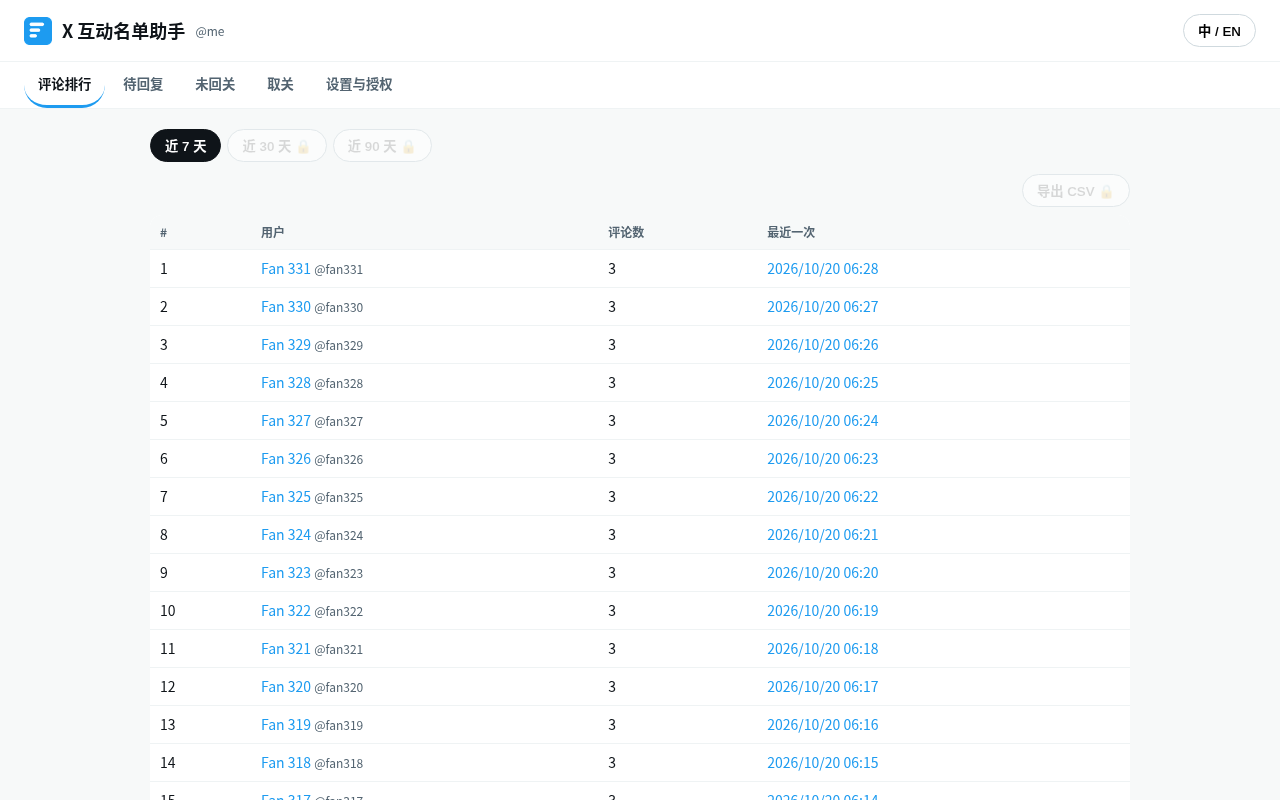
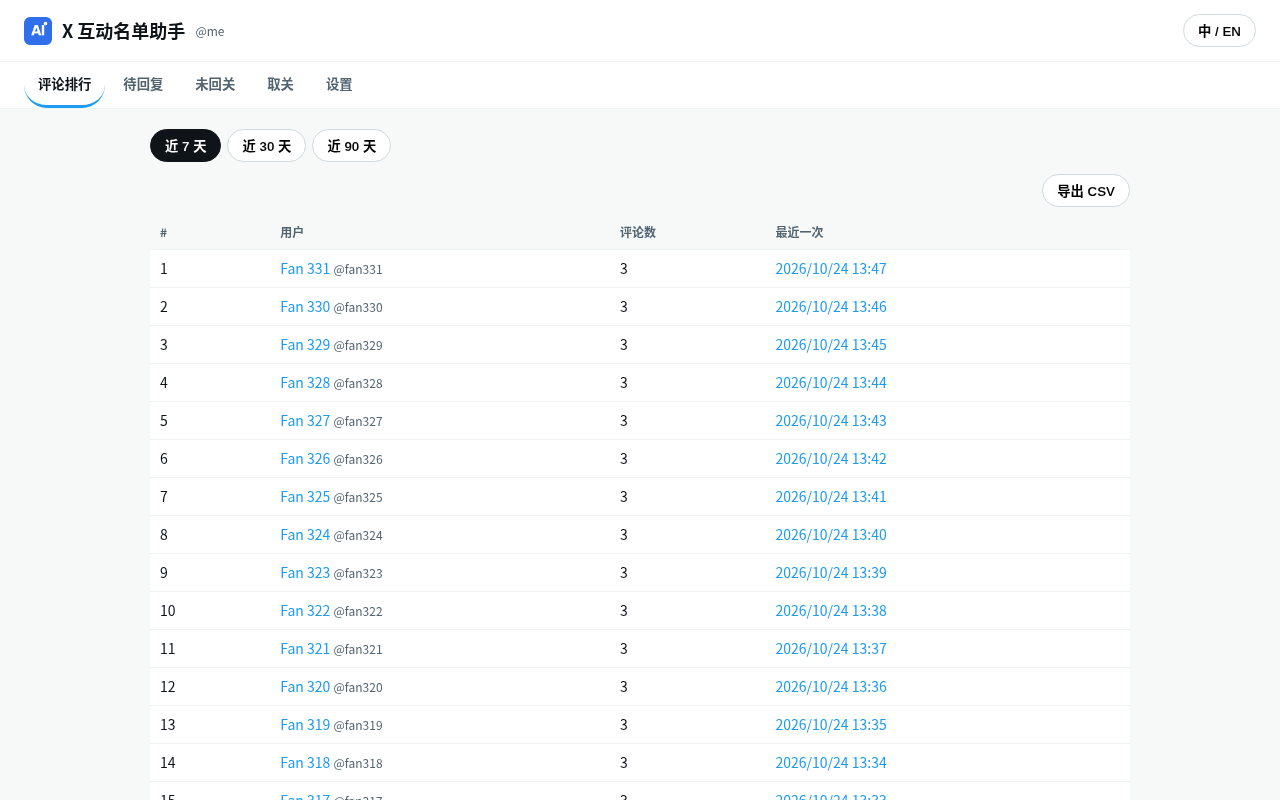
Free Chrome Web Store edition (non-trader): no plan/key/purchase/network in the extension; all features free; free-edition release guard + tests; e2e updated

diff --git a/src/dashboard.ts b/src/dashboard.ts
@@ -1,15 +1,14 @@
 /** Dashboard page (extension origin). Reads IndexedDB directly; renders with plain DOM, paginated for speed. */
-import { allowedDays, applyPlan, leaderboard, notFollowingBack, pendingReplies, toCSV, unfollowers } from './analytics';
-import { CONFIG, upgradeUrl } from './config';
-import { accounts, getMeta, getSnapshots, getTweets, setMeta, wipeAccount } from './db';
+// Free store edition: every feature is available, there is no plan, key, purchase or network request.
+import { leaderboard, notFollowingBack, pendingReplies, toCSV, unfollowers } from './analytics';
+import { accounts, getMeta, getSnapshots, getTweets, wipeAccount } from './db';
 import { defaultLang, t, type Key, type Lang } from './i18n';
-import { activate } from './license';
-import { currentPlan, refreshIfNeeded } from './plan';
-import type { Plan, Snapshot, TweetRecord } from './types';
+import { SITE } from './site';
+import type { Snapshot, TweetRecord } from './types';
 
 const PAGE = 100;
-const state = { lang: defaultLang() as Lang, tab: 'leaderboard' as Tab, days: 7, account: '', plan: 'free' as Plan,
-                tweets: [] as TweetRecord[], snaps: [] as Snapshot[], shown: PAGE, installId: '' };
+const state = { lang: defaultLang() as Lang, tab: 'leaderboard' as Tab, days: 7, account: '',
+                tweets: [] as TweetRecord[], snaps: [] as Snapshot[], shown: PAGE };
 type Tab = 'leaderboard' | 'pending' | 'notBack' | 'unfollowers' | 'settings';
 
 const $ = <T extends HTMLElement>(sel: string) => document.querySelector(sel) as T;
@@ -26,35 +25,34 @@ function download(name: string, csv: string) {
   setTimeout(() => URL.revokeObjectURL(a.href), 1000);
 }
 
-function table(head: string[], rows: string[][], total: number, hidden: number, csv?: () => string, csvName = 'export.csv'): string {
+function table(head: string[], rows: string[][], total: number, csv?: () => string, csvName = 'export.csv'): string {
   if (!total) return '';
   const body = rows.slice(0, state.shown).map((r) => `<tr>${r.map((c) => `<td>${c}</td>`).join('')}</tr>`).join('');
   const more = rows.length > state.shown ? `<button id="more">${tr('more')} (${rows.length - state.shown})</button>` : '';
-  const hid = hidden ? `<p class="upsell">${tr('hidden', { n: hidden })} · <a href="${esc(upgradeUrl(state.installId))}" target="_blank">${tr('buy')}</a></p>` : '';
-  const exp = csv ? `<button id="csv" ${state.plan === 'pro' ? '' : 'disabled title="' + tr('proOnly') + '"'}>${tr('exportCsv')}${state.plan === 'pro' ? '' : ' 🔒'}</button>` : '';
+  const exp = csv ? `<button id="csv">${tr('exportCsv')}</button>` : '';
   (window as unknown as { __csv?: () => void }).__csv = csv ? () => download(csvName, csv()) : undefined;
-  return `<div class="tools">${exp}</div><table><thead><tr>${head.map((h) => `<th>${h}</th>`).join('')}</tr></thead><tbody>${body}</tbody></table>${more}${hid}`;
+  return `<div class="tools">${exp}</div><table><thead><tr>${head.map((h) => `<th>${h}</th>`).join('')}</tr></thead><tbody>${body}</tbody></table>${more}`;
 }
 
 function viewLeaderboard(): string {
-  const days = allowedDays(state.days, state.plan);
+  const days = state.days;
   const all = leaderboard(state.tweets, state.account, days);
-  const { rows, hidden } = applyPlan(all, state.plan);
-  const sel = [7, 30, 90].map((d) => `<button class="seg ${d === days ? 'on' : ''}" data-days="${d}" ${d !== 7 && state.plan !== 'pro' ? 'disabled' : ''}>${tr(('d' + d) as Key)}${d !== 7 && state.plan !== 'pro' ? ' 🔒' : ''}</button>`).join('');
+  const rows = all;
+  const sel = [7, 30, 90].map((d) => `<button class="seg ${d === days ? 'on' : ''}" data-days="${d}">${tr(('d' + d) as Key)}</button>`).join('');
   if (!all.length) return `<div class="seg-wrap">${sel}</div><p class="empty">${tr('empty')}</p>`;
   return `<div class="seg-wrap">${sel}</div>` + table(['#', tr('user'), tr('count'), tr('last')],
     rows.map((r, i) => [String(i + 1), userLink(r.handle, r.name), String(r.count), `<a href="${esc(r.lastUrl)}" target="_blank">${fmt(r.lastAt)}</a>`]),
-    all.length, hidden, () => toCSV(all.map((r) => ({ handle: r.handle, name: r.name, comments: r.count, last_at: new Date(r.lastAt).toISOString(), last_url: r.lastUrl }))),
+    all.length, () => toCSV(all.map((r) => ({ handle: r.handle, name: r.name, comments: r.count, last_at: new Date(r.lastAt).toISOString(), last_url: r.lastUrl }))),
     `top-commenters-${days}d.csv`);
 }
 
 function viewPending(): string {
-  const all = pendingReplies(state.tweets, state.account, allowedDays(30, state.plan));
-  const { rows, hidden } = applyPlan(all, state.plan);
+  const all = pendingReplies(state.tweets, state.account, 30);
+  const rows = all;
   if (!all.length) return `<p class="empty">${tr('empty')}</p>`;
   return table([tr('user'), tr('comment'), tr('time'), ''],
     rows.map((c) => [userLink(c.author, c.name), esc(c.text.slice(0, 140)), fmt(c.time), `<a href="${esc(c.url)}" target="_blank">${tr('open')}</a>`]),
-    all.length, hidden, () => toCSV(all.map((c) => ({ handle: c.author, name: c.name, text: c.text, time: new Date(c.time).toISOString(), url: c.url }))), 'to-reply.csv');
+    all.length, () => toCSV(all.map((c) => ({ handle: c.author, name: c.name, text: c.text, time: new Date(c.time).toISOString(), url: c.url }))), 'to-reply.csv');
 }
 
 function latest(kind: 'following' | 'followers', completeOnly = true) {
@@ -65,18 +63,18 @@ function viewNotBack(): string {
   const snap = latest('following');
   if (!snap) return `<p class="empty">${tr('noSnap')}</p>`;
   const all = notFollowingBack(snap);
-  const { rows, hidden } = applyPlan(all, state.plan);
+  const rows = all;
   return `<p class="muted">${tr('lastSnap')}: ${fmt(snap.takenAt)} · ${all.length}/${snap.users.length}</p>` +
-    table([tr('user')], rows.map((u) => [userLink(u.handle, u.name)]), all.length, hidden,
+    table([tr('user')], rows.map((u) => [userLink(u.handle, u.name)]), all.length,
       () => toCSV(all.map((u) => ({ handle: u.handle, name: u.name, url: `https://x.com/${u.handle}` }))), 'not-following-back.csv');
 }
 
 function viewUnfollowers(): string {
   const r = unfollowers(state.snaps);
   if (!r.ok) return `<p class="empty">${tr('needTwo')}</p>`;
-  const { rows, hidden } = applyPlan(r.removed, state.plan);
+  const rows = r.removed;
   return `<p class="muted">${fmt(r.from!)} → ${fmt(r.to!)} · ${tr('removed')}: ${r.removed.length} · ${tr('added')}: ${r.added.length}</p>` +
-    (r.removed.length ? table([tr('removed')], rows.map((u) => [userLink(u.handle, u.name)]), r.removed.length, hidden,
+    (r.removed.length ? table([tr('removed')], rows.map((u) => [userLink(u.handle, u.name)]), r.removed.length,
       () => toCSV(r.removed.map((u) => ({ handle: u.handle, name: u.name }))), 'unfollowers.csv') : '');
 }
 
@@ -86,18 +84,9 @@ async function viewSettings(): Promise<string> {
   const diag = health ? `<table><tr><th>key</th><th>selector</th><th>#</th></tr>${Object.entries(health.health).map(([k, v]) =>
     `<tr><td>${esc(k)}</td><td class="${v.matched ? '' : 'bad'}">${esc(v.matched || '—')}</td><td>${v.count}</td></tr>`).join('')}</table>
     <p class="muted">${esc(health.url)} · ${fmt(health.at)}</p>` : '<p class="muted">—</p>';
-  return `<section><h3>${tr('plan')}: ${state.plan === 'pro' ? tr('pro') : tr('free')}</h3><p class="muted">${tr('freeNote')}</p>
-    ${state.plan === 'pro' ? '' : `<p><a class="btn" href="${esc(upgradeUrl(state.installId))}" target="_blank">${tr('buy')}</a></p>
-    <p><input id="key" placeholder="XENG-XXXX-XXXX-XXXX" size="29"> <button id="act">${tr('activate')}</button> <span id="actmsg"></span></p>`}</section>
-    <section><h3>${tr('account')}</h3>${accs.map((a) => `<label><input type="radio" name="acc" value="${esc(a)}" ${a === state.account ? 'checked' : ''}> @${esc(a)}</label> `).join('') || '—'}
+  return `<section><h3>${tr('account')}</h3>${accs.map((a) => `<label><input type="radio" name="acc" value="${esc(a)}" ${a === state.account ? 'checked' : ''}> @${esc(a)}</label> `).join('') || '—'}
     ${state.account ? `<p><button id="wipe" class="danger">${tr('wipe')} (@${esc(state.account)})</button></p>` : ''}</section>
-    <section><h3>${tr('diag')}</h3>${diag}</section><p class="muted">${tr('privacy')} · <a href="${esc(CONFIG.PRIVACY_URL)}" target="_blank">Privacy</a></p>`;
-}
-
-async function deviceId(): Promise<string> {
-  let id = await getMeta<string>('deviceId');
-  if (!id) { id = crypto.randomUUID(); await setMeta('deviceId', id); }
-  return id;
+    <section><h3>${tr('diag')}</h3>${diag}</section><p class="muted">${tr('privacy')} · <a href="${esc(SITE.PRIVACY_URL)}" target="_blank" rel="noopener">${tr('privacyLink')}</a> · <a href="${esc(SITE.HOME_URL)}" target="_blank" rel="noopener">AI Seen Lab</a></p>`;
 }
 
 async function render() {
@@ -119,14 +108,6 @@ function bind() {
   const more = $('#more'); if (more) more.onclick = () => { state.shown += PAGE; render(); };
   const csv = $('#csv'); if (csv) csv.onclick = () => (window as unknown as { __csv?: () => void }).__csv?.();
   document.querySelectorAll<HTMLInputElement>('input[name=acc]').forEach((r) => r.onchange = () => load(r.value));
-  const act = $('#act');
-  if (act) act.onclick = async () => {
-    const res = await activate(CONFIG.LICENSE_API, ($('#key') as HTMLInputElement).value, await deviceId());
-    if (res.token) { await setMeta('licenseToken', res.token); await setMeta('licenseKey', ($('#key') as HTMLInputElement).value.trim().toUpperCase()); }
-    state.plan = await currentPlan();
-    $('#actmsg').textContent = res.token && state.plan === 'pro' ? tr('activated') : tr('err') + (res.error || 'invalid-token');
-    if (state.plan === 'pro') render();
-  };
   const wipe = $('#wipe');
   if (wipe) wipe.onclick = async () => { if (confirm(tr('wipe') + '?')) { await wipeAccount(state.account); await load(''); } };
 }
@@ -142,9 +123,6 @@ async function load(account: string) {
 }
 
 export async function init() {
-  if (!CONFIG.LICENSE_API.includes('__') && (await refreshIfNeeded()) === 'renewed') { /* token renewed */ }
-  state.plan = await currentPlan();
-  state.installId = await deviceId();   // random per-install id; doubles as client_reference_id
   document.querySelectorAll<HTMLButtonElement>('nav button').forEach((b) => b.onclick = () => { state.tab = b.dataset.tab as Tab; state.shown = PAGE; render(); });
   $('#lang').onclick = () => { state.lang = state.lang === 'zh' ? 'en' : 'zh'; render(); };
   await load('');

diff --git a/src/i18n.ts b/src/i18n.ts
@@ -5,13 +5,12 @@ const D = {
   pending: ['待回复', 'To reply'],
   notBack: ['未回关', 'Not following back'],
   unfollowers: ['取关', 'Unfollowers'],
-  settings: ['设置与授权', 'Settings & license'],
+  settings: ['设置', 'Settings'],
   days: ['时间范围', 'Range'],
   d7: ['近 7 天', 'Last 7 days'], d30: ['近 30 天', 'Last 30 days'], d90: ['近 90 天', 'Last 90 days'],
   user: ['用户', 'User'], count: ['评论数', 'Comments'], last: ['最近一次', 'Latest'], open: ['打开', 'Open'],
   comment: ['评论内容', 'Comment'], time: ['时间', 'Time'], followsYou: ['关注你', 'Follows you'],
-  exportCsv: ['导出 CSV', 'Export CSV'], proOnly: ['Pro 功能', 'Pro feature'],
-  hidden: ['还有 {n} 条，升级 Pro 查看全部', '{n} more rows — upgrade to Pro to see all'],
+  exportCsv: ['导出 CSV', 'Export CSV'],
   empty: ['还没有数据。打开你帖子的详情页、通知页，或者你的关注/粉丝列表，助手会自动记录你屏幕上看到的内容。',
           'No data yet. Open your posts, your Notifications, or your Following/Followers list; the assistant records what you see on screen.'],
   noSnap: ['还没有完整的“关注”快照。打开你的“正在关注”页面，点右下角的“开始记录快照”。',
@@ -19,16 +18,12 @@ const D = {
   needTwo: ['需要至少两次完整的“粉丝”快照才能对比取关。打开你的粉丝页面，点右下角“开始记录快照”；过几天再记录一次。',
             'Unfollow detection needs two complete Followers snapshots. Open your Followers page, click “Start snapshot”, and repeat in a few days.'],
   lastSnap: ['快照时间', 'Snapshot taken'], removed: ['取关了你', 'Unfollowed you'], added: ['新关注你', 'New followers'],
-  account: ['账号', 'Account'], plan: ['当前版本', 'Plan'], free: ['免费版', 'Free'], pro: ['Pro', 'Pro'],
-  buy: ['购买 Pro：$4.99 美元一次性（银行卡，Stripe 结账页可能显示本地货币）', 'Buy Pro: $4.99 USD one-off (card; Stripe checkout may show your local currency)'], key: ['授权码', 'License key'], activate: ['激活', 'Activate'],
+  account: ['账号', 'Account'],
   wipe: ['删除这个账号的全部本地数据', 'Delete all local data for this account'], wiped: ['已删除', 'Deleted'],
   diag: ['诊断（页面结构检测）', 'Diagnostics (page structure check)'],
-  privacy: ['所有数据只保存在你的浏览器本地，不上传任何服务器。唯一的网络请求是激活 Pro 授权。',
-            'All data stays in your browser. Nothing is uploaded; the only network request is Pro license activation.'],
-  freeNote: ['免费版：近 7 天、前 20 名、1 个账号。Pro：7/30/90 天完整历史、CSV 导出、未回关完整名单、多账号。',
-             'Free: last 7 days, top 20, one account. Pro: full 7/30/90-day history, CSV export, full lists, multiple accounts.'],
-  activated: ['已激活 Pro，谢谢支持！', 'Pro activated — thank you!'],
-  err: ['激活失败：', 'Activation failed: '],
+  privacy: ['所有数据只保存在你的浏览器本地，不上传任何服务器，扩展不发出任何网络请求。',
+            'All data stays in your browser. Nothing is uploaded and the extension makes no network requests.'],
+  privacyLink: ['隐私政策', 'Privacy policy'],
   more: ['显示更多', 'Show more'],
 } as const;
 

diff --git a/tests/free_edition.test.ts b/tests/free_edition.test.ts
@@ -1,0 +1,33 @@
+// @vitest-environment node
+// Free Chrome Web Store edition ("non-trader" account): the shipped bundles contain no purchase entry, payment link,
+// license/unlock flow, price or paid-tier copy, and make no network requests.
+import { build } from 'esbuild';
+import { describe, expect, it } from 'vitest';
+
+describe('free store edition', () => {
+  it('bundles without any paid, license, payment or dev-host text', async () => {
+    // @ts-expect-error plain .mjs script
+    const { FREE_BAD } = await import('../scripts/check_release.mjs');
+    const r = await build({ entryPoints: ['src/content.ts', 'src/background.ts', 'src/dashboard.ts'], bundle: true, write: false,
+                            format: 'iife', target: 'chrome114', outdir: 'out', minify: true, legalComments: 'none' });
+    for (const f of r.outputFiles) {
+      expect(f.text.match(FREE_BAD)?.[0], f.path).toBeUndefined();
+      expect(f.text, f.path).not.toMatch(/\bfetch\(|XMLHttpRequest|sendBeacon|WebSocket/);
+    }
+    const { readFileSync } = await import('node:fs');
+    for (const f of ['static/dashboard.html', 'static/dashboard.css', 'static/_locales/en/messages.json', 'static/_locales/zh_CN/messages.json'])
+      expect(readFileSync(f, 'utf8').match(FREE_BAD)?.[0], f).toBeUndefined();
+  });
+  it('flags paid copy in a build dir', async () => {
+    const { mkdtempSync, writeFileSync } = await import('node:fs');
+    const { tmpdir } = await import('node:os');
+    const { join } = await import('node:path');
+    // @ts-expect-error plain .mjs script
+    const { checkFreeEdition } = await import('../scripts/check_release.mjs');
+    const dir = mkdtempSync(join(tmpdir(), 'free-'));
+    writeFileSync(join(dir, 'ok.js'), 'indexedDB.open("x",1).onupgradeneeded=()=>{}');
+    expect(checkFreeEdition(dir)).toEqual([]);
+    writeFileSync(join(dir, 'bad.js'), 'const u="https://buy.stripe.com/x"');
+    expect(checkFreeEdition(dir).join('\n')).toContain('bad.js');
+  });
+});

diff --git a/src/background.ts b/src/background.ts
@@ -1,13 +1,6 @@
 /** MV3 service worker: the only writer to IndexedDB. Receives parsed data from the content script. */
-import { accounts, addSnapshot, putTweets, rememberAccount, setMeta } from './db';
+import { addSnapshot, putTweets, rememberAccount, setMeta } from './db';
 import { validMsg } from './messages';
-import { currentPlan } from './plan';
-
-async function accountAllowed(account: string): Promise<boolean> {
-  const list = await accounts();
-  if (list.includes(account) || list.length === 0) return true;
-  return (await currentPlan()) === 'pro'; // multi-account is a Pro feature
-}
 
 chrome.runtime.onMessage.addListener((msg, sender, sendResponse) => {
   if (sender.id !== chrome.runtime.id || !validMsg(msg)) { sendResponse({ ok: false }); return false; }
@@ -17,7 +10,6 @@ chrome.runtime.onMessage.addListener((msg, sender, sendResponse) => {
       return { ok: true };
     }
     const account = msg.type === 'tweets' ? msg.account : msg.snapshot.account;
-    if (!(await accountAllowed(account))) return { ok: false, reason: 'pro-required-for-multi-account' };
     await rememberAccount(account);
     if (msg.type === 'tweets') return { ok: true, added: await putTweets(msg.tweets) };
     return { ok: true, id: await addSnapshot(msg.snapshot) };

diff --git a/static/dashboard.css b/static/dashboard.css
@@ -7,7 +7,7 @@ table{width:100%;border-collapse:collapse;background:#fff;border-radius:12px;ove
 th{background:#f7f9f9;font-size:12px;color:#536471}a{color:#1d9bf0;text-decoration:none}.muted{color:#536471;font-size:12px}
 button{border:1px solid #cfd9de;background:#fff;border-radius:999px;padding:6px 14px;cursor:pointer;font-weight:600}button:disabled{opacity:.5;cursor:not-allowed}
 .seg-wrap{margin-bottom:12px;display:flex;gap:6px}.seg.on{background:#0f1419;color:#fff;border-color:#0f1419}.tools{display:flex;justify-content:flex-end;margin-bottom:8px}
-.empty{background:#fff;padding:24px;border-radius:12px;color:#536471}.upsell{background:#e8f5fd;padding:10px 14px;border-radius:10px}
+.empty{background:#fff;padding:24px;border-radius:12px;color:#536471}
 .btn{display:inline-block;background:#1d9bf0;color:#fff;padding:8px 16px;border-radius:999px;font-weight:700}section{background:#fff;padding:16px;border-radius:12px;margin-bottom:12px}
 .danger{color:#f4212e;border-color:#f4212e}.bad{color:#f4212e}#more{margin:12px auto;display:block}
 

diff --git a/src/site.ts b/src/site.ts
@@ -1,0 +1,5 @@
+/** Public links used by the free store build. Nothing here is secret. */
+export const SITE = {
+  HOME_URL: 'https://xeng.aiseenlab.com',
+  PRIVACY_URL: 'https://xeng.aiseenlab.com/privacy',
+};
